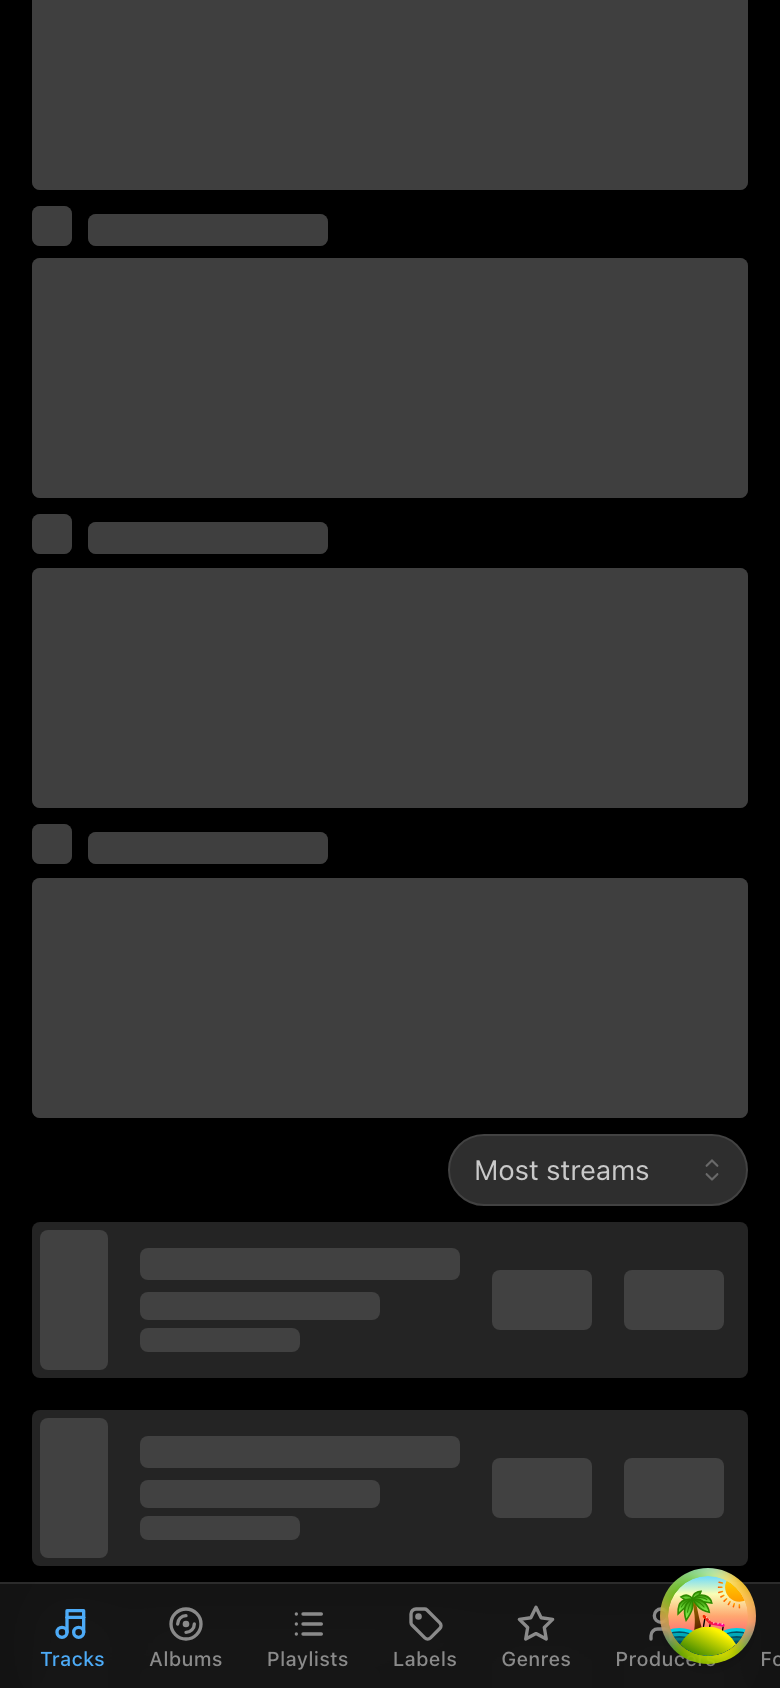
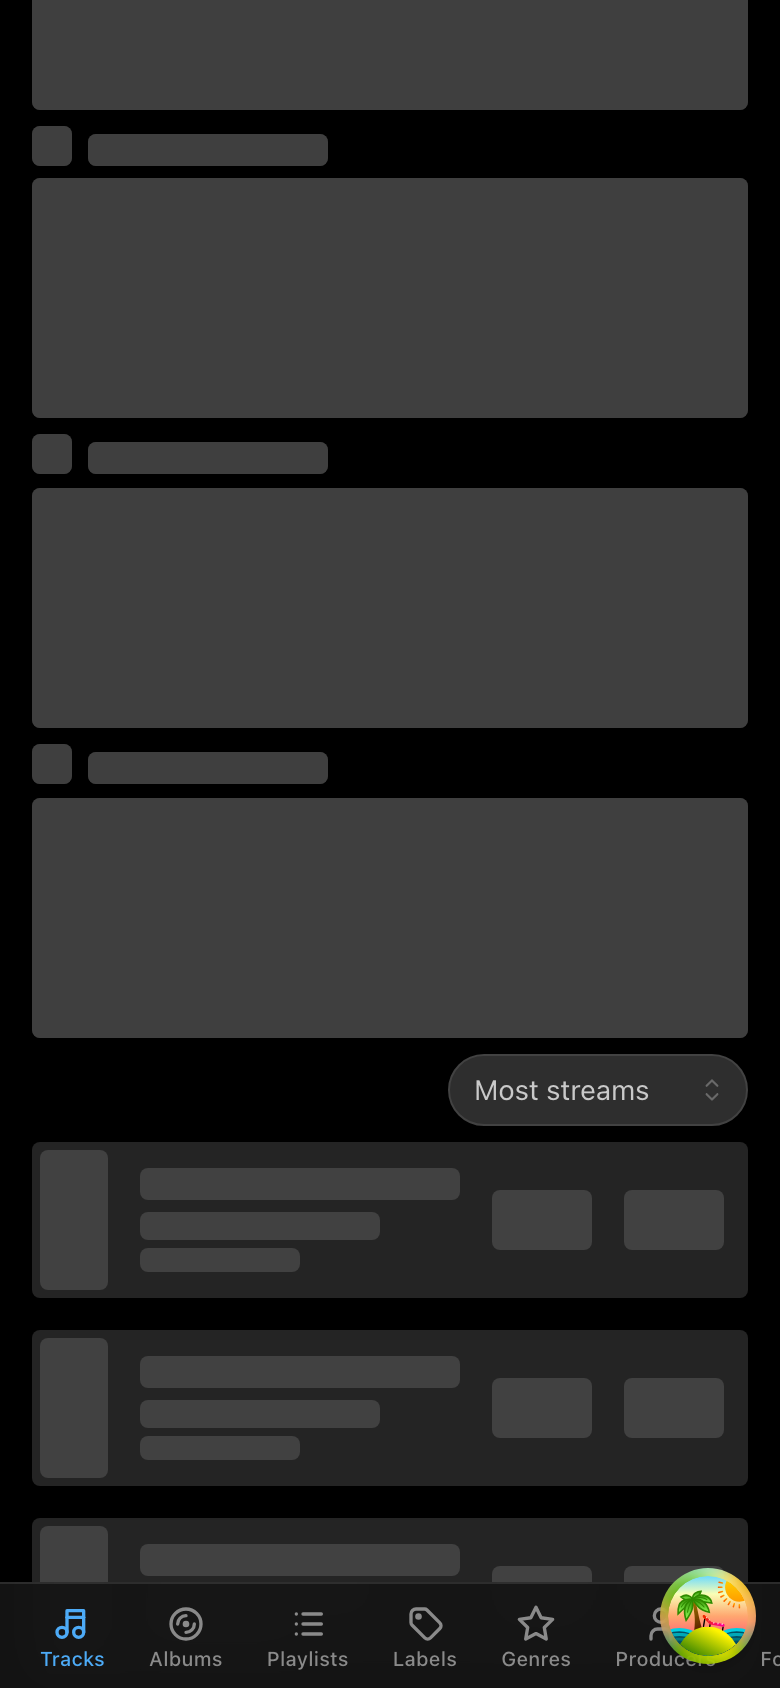
Put green background on header nav, update screenshots
Instead of a separate HeaderBackdrop div, apply the green background
directly to the header nav element with negative margins to go
full-width inside the Container.

diff --git a/client/src/Backdrop.module.css b/client/src/Backdrop.module.css
@@ -8,12 +8,6 @@
   overflow: hidden;
 }
 
-.headerBackground {
-  width: 100%;
-  height: 40px;
-  background-color: var(--mantine-color-green-9);
-}
-
 .tileContainer {
   display: flex;
   flex-wrap: wrap;

diff --git a/client/src/Header.module.css b/client/src/Header.module.css
@@ -1,6 +1,11 @@
 .headerNav {
     display: flex;
     justify-content: space-between;
+    background-color: var(--mantine-color-green-9);
+    margin-left: calc(-1 * var(--mantine-spacing-md));
+    margin-right: calc(-1 * var(--mantine-spacing-md));
+    padding-left: var(--mantine-spacing-md);
+    padding-right: var(--mantine-spacing-md);
 }
 
 .headerText {

diff --git a/client/src/Backdrop.tsx b/client/src/Backdrop.tsx
@@ -10,10 +10,6 @@ export function Backdrop() {
   );
 }
 
-export function HeaderBackdrop() {
-  return <div className={styles.headerBackground} />;
-}
-
 function AlbumTiles() {
   const tiles = useAlbumTiles();
   return tiles && tiles.length > 0 ? (

diff --git a/client/src/App.tsx b/client/src/App.tsx
@@ -2,7 +2,7 @@ import "./global.css";
 
 import { Container } from "@mantine/core";
 
-import { Backdrop, HeaderBackdrop } from "./Backdrop";
+import { Backdrop } from "./Backdrop";
 import { AlbumDetails } from "./details/AlbumDetails";
 import { ArtistDetails } from "./details/ArtistDetails";
 import { PlaylistDetails } from "./details/PlaylistDetails";
@@ -143,7 +143,6 @@ export function App() {
   return (
     <>
       <Backdrop />
-      <HeaderBackdrop />
       <Container size="lg">
         <Header />
         <DetailsTitle />